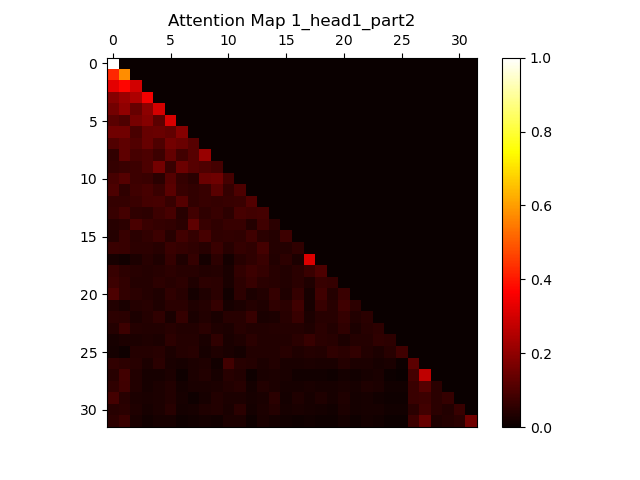
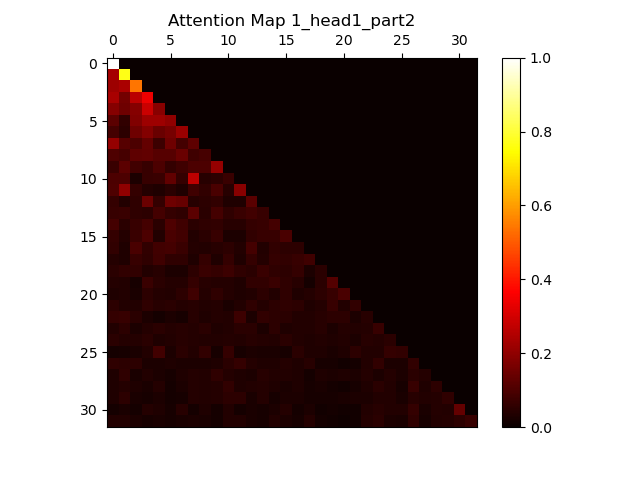
final version

diff --git a/main.py b/main.py
@@ -239,6 +239,8 @@ def main(part):
             test_accuracy, test_loss = compute_classifier_accuracy(model, test_CLS_loader, criterion)
             print(f"Epoch {epoch+1}/{epochs_CLS}, Train Loss: {train_loss:.4f}, Test Loss: {test_loss:.4f}, Test Accuracy: {test_accuracy:.2f}%")
         # Initialize Utilities and run sanity check
+        test_accuracy, test_loss = compute_classifier_accuracy(model, test_CLS_loader, criterion)
+        print(f"Final Test Loss: {test_loss:.4f}, Final Test Accuracy: {test_accuracy:.2f}%")
         utilities = Utilities(tokenizer, model)
         sample_sentence = "This is a sample sentence to visualize attention maps, which is intentionally made around 32 words to see if the attention map works properly."
         utilities.sanity_check(sample_sentence, block_size=32)
@@ -275,7 +277,7 @@ def main(part):
 
         vocab_size = tokenizer.vocab_size
         decoder = TransformerDecoder(vocab_size=vocab_size, embed_size=n_embd, num_layers=n_layer, num_heads=n_head, 
-                                     ff_hidden_dim=n_hidden, dropout=0.04, max_length=block_size).to(device)
+                                     ff_hidden_dim=n_hidden, dropout=0.03, max_length=block_size).to(device)
         optimizer = torch.optim.Adam(decoder.parameters(), lr=learning_rate)
         criterion = nn.CrossEntropyLoss()
         print("Starting decoder pretraining on language modeling task...")
@@ -320,6 +322,8 @@ def main(part):
         utilities.sanity_check(sample_sentence, block_size=32, part='part2')
 
         print("Training complete.")
+        num_params = count_parameters(decoder)
+        print(f"Number of trainable parameters in the TransformerDecoder: {num_params}")
 
 
     elif part == "part3":
@@ -396,6 +400,8 @@ def main(part):
         utilities.sanity_check(sample_sentence, block_size=32, part='part3')
 
         print("Training complete.")
+        num_params = count_parameters(decoder)
+        print(f"Number of trainable parameters in the TransformerDecoder: {num_params}")
 
     elif part == "generation":
         
